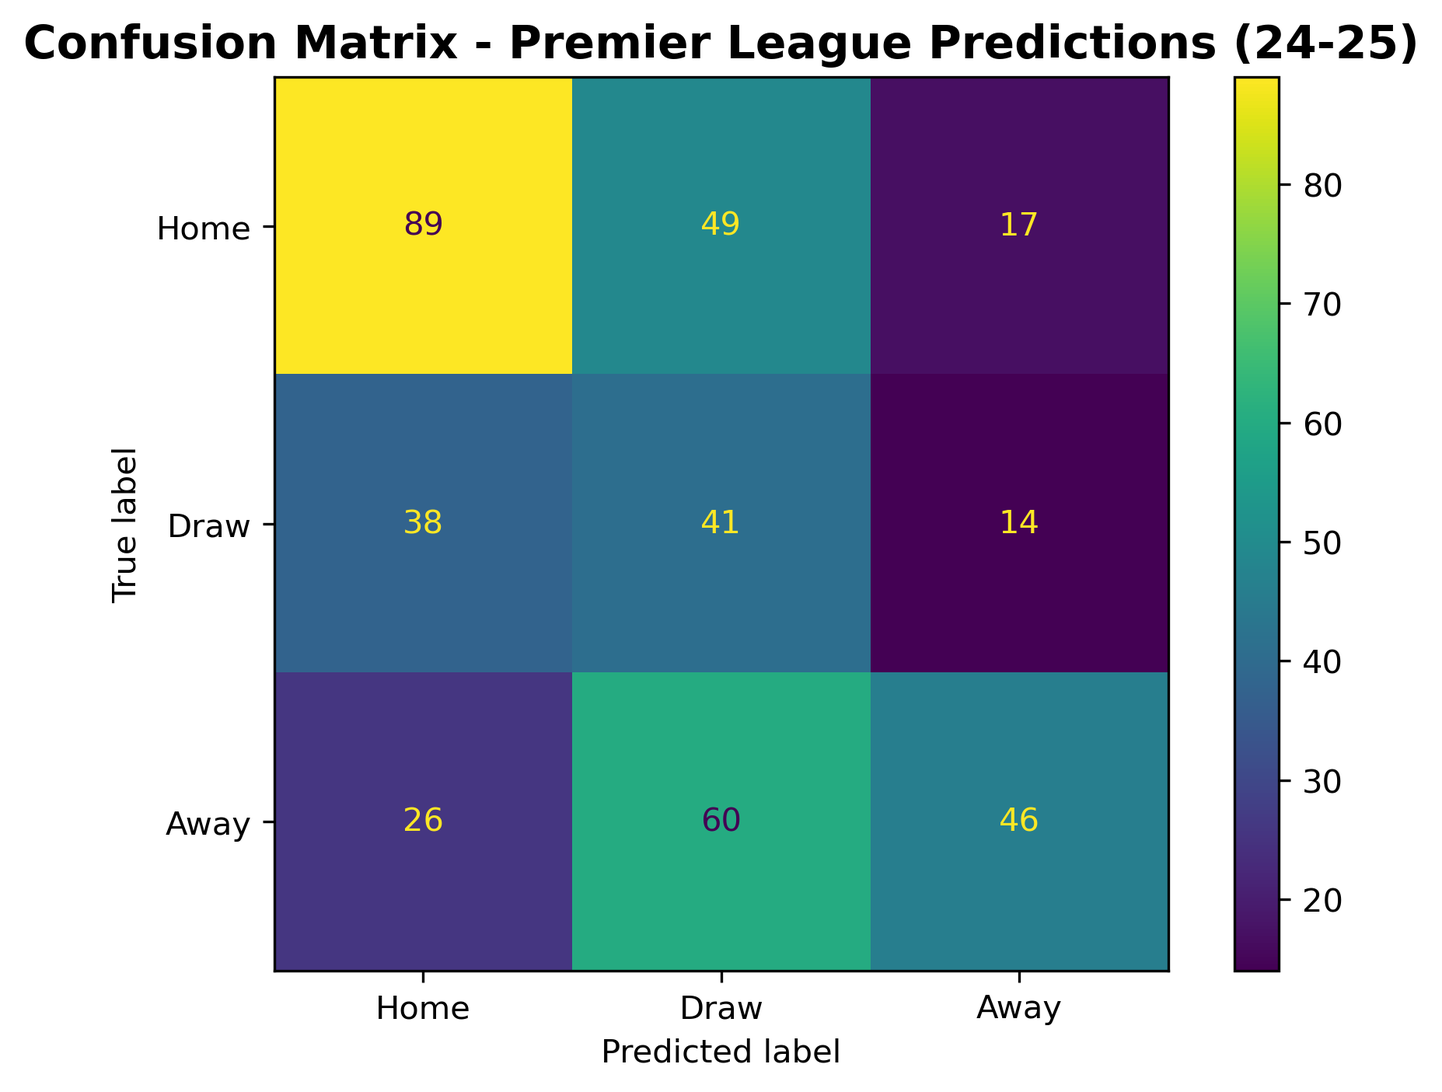
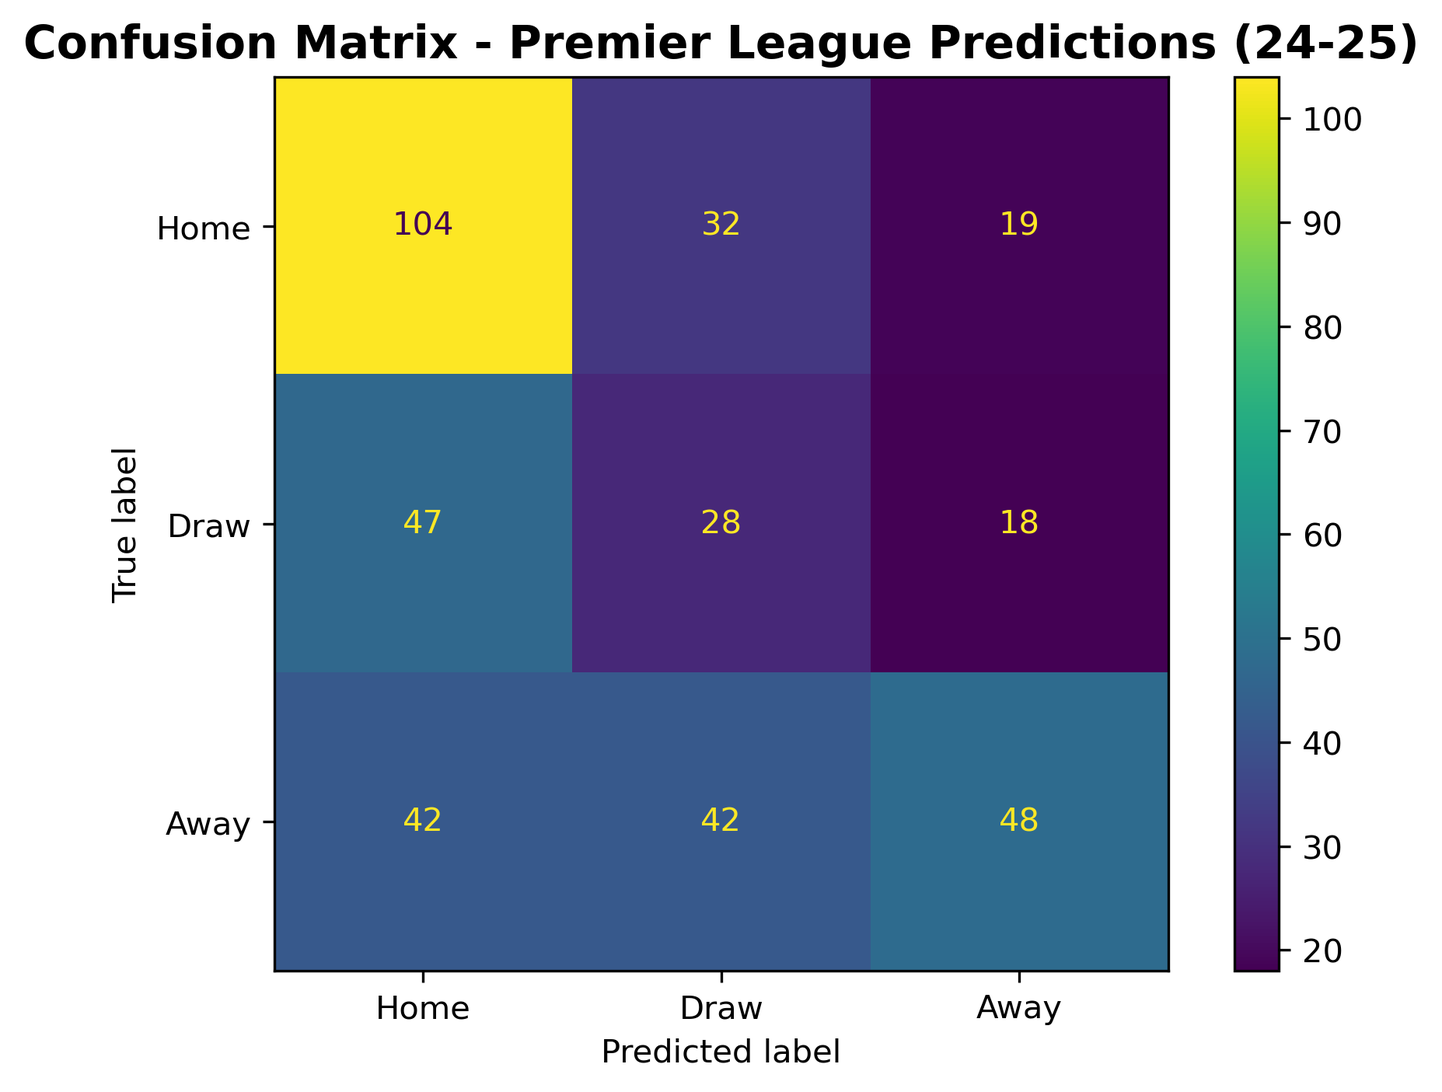
Evaluation section

diff --git a/docs/Final Report/main.tex b/docs/Final Report/main.tex
@@ -17,6 +17,7 @@
 \usepackage{microtype}
 \usepackage{inconsolata}
 \usepackage{graphicx}
+\usepackage{makecell}
 
 % If the title and author information does not fit in the area allocated, uncomment the following
 %
@@ -83,9 +84,8 @@ Here, talk about the related work you encountered for your approach. Cite at lea
 
 \section{Dataset}
 
-Our dataset consists of historical English Premier League match data covering seasons 2010–11 through 2024–25, obtained from the public repository \citep{footballdata}. The English Premier League is the top tier of English football, featuring 20 teams that compete in a double round-robin format: each team plays every other team twice (once at home, once away), resulting in 380 matches per season. The dataset spans 15 complete seasons, providing approximately 5,700 total match records for analysis and modeling.
+Our dataset consists of historical English Premier League match data covering seasons 2010–11 through 2024–25, obtained from the public repository \citep{footballdata}. The English Premier League is the top tier of English football, featuring 20 teams that compete in a double round-robin format: each team plays every other team twice (once at home, once away), resulting in 380 matches per season, which is 38 matches per team per season. The dataset spans 15 complete seasons, providing 5,700 total matches for this project.
 
-The dataset is structured as a sequence of matches ordered chronologically within each season, enabling temporal modeling of team performance and form. Each season's CSV file contains match-level statistics that capture both pre-match expectations and post-match outcomes, making it suitable for developing predictive models that can forecast match results before kickoff.
 
 \subsection{Dataset Properties}
 
@@ -97,65 +97,62 @@ The dataset contains comprehensive match-level information organized into severa
 \hline
 \textbf{Category} & \textbf{Example Columns} \\
 \hline
-Match Information & Date, HomeTeam, AwayTeam, Season, Div \\
+Match Info & \makecell[l]{Date, HomeTeam, \\AwayTeam, Season, Div} \\
 Full-time Outcome & FTHG, FTAG, FTR \\
-Half-time Statistics & HTHG, HTAG, HTR \\
+Half-time Stats & HTHG, HTAG, HTR \\
 Offensive Metrics & HS, AS, HST, AST, HC, AC \\
-Discipline Statistics & HF, AF, HY, AY, HR, AR \\
+Discipline & HF, AF, HY, AY, HR, AR \\
 Betting Odds & B365H, B365D, B365A \\
 \hline
 \end{tabular}
-\caption{Column categories included in the Premier League dataset. FTHG/FTAG: full-time home/away goals; HTHG/HTAG: half-time home/away goals; HS/AS: home/away shots; HST/AST: home/away shots on target; HC/AC: home/away corners; HF/AF: home/away fouls; HY/AY: home/away yellow cards; HR/AR: home/away red cards; B365H/B365D/B365A: Bet365 odds for home win/draw/away win.}
+\caption{Example columns included in the Premier League dataset.}
 \end{table}
 
-The dataset exhibits several important characteristics for predictive modeling. First, it provides temporal continuity across 15 seasons, allowing models to learn long-term patterns and adapt to evolving team dynamics. Second, the inclusion of pre-match betting odds (Bet365) provides a strong baseline signal, as these odds aggregate expert knowledge, public sentiment, and statistical analysis. Third, the chronological ordering enables proper temporal modeling where predictions for future matches can only use information from past matches.
-
-The dataset contains minimal missing data, with most matches having complete records for goals, results, and betting odds. This high data quality reduces the need for extensive imputation strategies and ensures reliable model training.
+The dataset contains many important features for predictive modeling. First, it contains the temporal continuity over the 15 seasons, allowing our model to learn the long-term patterns and adapt to team performance and form during each season. Second, it contains the pre-match betting odds, which provide a strong feature expectation for the match outcome. Third, the chronological ordering enables proper temporal modeling where predictions for future matches can only use information from past matches. Finally, the dataset is complete, with no or minimal missing data, with most matches having complete records for goals, results, and betting odds.
 
 \subsection{Preprocessing Operations}
 
-The preprocessing pipeline, implemented in \texttt{build\_dataset.py}, transforms raw match data into a format suitable for sequential modeling. The pipeline consists of several stages: data cleaning, feature extraction, history construction, and data splitting.
+The preprocessing pipeline, implemented in \texttt{build\_dataset.py} and \texttt{importing\_files.py}, transforms raw match data into a format suitable for sequential modeling. The pipeline consists of several stages: data cleaning, feature extraction, history construction, and data splitting.
 
 \subsubsection{Data Cleaning}
 
 The first stage involves cleaning and standardizing the raw match data:
 \begin{itemize}
-    \item \textbf{Removal of incomplete records}: Matches with missing full-time goals (FTHG, FTAG) or results (FTR) are excluded from the dataset, as these are essential for both training and evaluation.
-    \item \textbf{Betting odds normalization}: Missing odds values are converted to numeric format and filled with 0.0 if unavailable. This occurs rarely in our dataset, as most matches have complete betting odds information.
-    \item \textbf{Date parsing}: Match dates are standardized to ensure proper chronological ordering, which is critical for temporal modeling and preventing data leakage.
-    \item \textbf{Team name standardization}: Team names are normalized to handle variations (e.g., "Manchester United" vs. "Man United") and ensure consistent identification across seasons.
+    \item \textbf{Removal of incomplete records}: Matches with missing full-time goals (FTHG, FTAG) or results (FTR) are excluded from the dataset using \texttt{dropna} to ensure that the dataset is complete and can be used for training and evaluation.
+    \item \textbf{Betting odds processing}: Betting odds columns (B365H, B365D, B365A) are converted to numeric format and filled with 0.0 to avoid any invalid or NaN values.
+    \item \textbf{Date sorting}: Match dates are parsed to datetime format and the entire dataset is sorted chronologically by season and date, which is essential for temporal modeling.
+    \item \textbf{Team identification}: Create mapping of the team names to unique IDs to be used for the model.
 \end{itemize}
 
 \subsubsection{Feature Extraction}
 
-For each match, we extract features from the perspective of each team using the \texttt{\_game\_features\_from\_perspective} function. This creates a 7-dimensional feature vector per match that captures the essential match outcomes:
+For each match, we extract features from the perspective of each team using the \verb|_game_features_from_perspective| function. This creates a 7-dimensional feature vector per match that captures the essential match outcomes. The features are:
 \begin{itemize}
     \item \textbf{Goals for (gf)}: Number of goals scored by the team in the match
     \item \textbf{Goals against (ga)}: Number of goals conceded by the team
     \item \textbf{Goal difference (gd)}: Computed as gf - ga, providing a single metric for match performance
-    \item \textbf{Home indicator (is\_home)}: Binary value (1.0 if playing at home, 0.0 if away), capturing venue effects
+    \item \textbf{Home indicator (is\_home)}: Binary value (1.0 if playing at home, 0.0 if away), capturing stadium effects
     \item \textbf{Win indicator}: Binary value (1.0 if the team won, 0.0 otherwise)
     \item \textbf{Draw indicator}: Binary value (1.0 if the match was drawn, 0.0 otherwise)
     \item \textbf{Loss indicator}: Binary value (1.0 if the team lost, 0.0 otherwise)
 \end{itemize}
 
-This feature representation is designed to be temporally consistent: all features are derived from match outcomes that are known immediately after a match concludes, making them available for predicting future matches. The 7-dimensional vector provides a compact yet informative representation that captures both the quantitative (goals) and qualitative (result) aspects of match performance.
 
 \subsubsection{History Construction}
 
 The preprocessing builds two types of match history sequences that capture different aspects of team performance:
 
 \textbf{Team Form History:}
-For each team, we maintain a rolling window of the last $k_{form}=5$ matches, capturing recent performance trends. This form history is updated incrementally as matches are processed chronologically, ensuring that only information available before each match is used for prediction. The choice of $k_{form}=5$ balances the need for sufficient context to capture momentum and trends while avoiding excessive noise from older matches that may be less relevant to current form.
+For each team, we maintain a window of the last $k_{form}=5$ matches, capturing recent form of the team. This form history is updated incrementally as matches are processed chronologically, ensuring that only information available before each match is used for prediction. The choice of $k_{form}=5$ balances the need for sufficient context to capture momentum and trends while avoiding excessive noise from older matches that may be less relevant to current form.
 
 \textbf{Head-to-Head History:}
-For each team pair, we maintain the last $k_{h2h}=5$ encounters between the two teams, using the same 7-dimensional feature representation. Head-to-head history captures matchup-specific dynamics, such as tactical advantages, psychological factors, and historical dominance patterns. This is particularly valuable for teams with strong historical records against specific opponents, as it allows the model to learn these matchup-specific patterns.
+For each team pair, we maintain the last $k_{h2h}=5$ encounters between the two teams, using the same 7-dimensional feature representation. Head-to-head history captures matchup specific information, such as tactical advantages, psychological factors, and historical dominance patterns. This is particularly valuable for teams with strong historical records against specific opponents, as it allows the model to learn these matchup-specific patterns.
 
 Both history types are constructed incrementally as matches are processed in chronological order. When a team has fewer than $k$ previous matches (e.g., at the start of a season or for newly promoted teams), the history is padded with zero vectors, ensuring consistent input dimensions for the model.
 
 \subsubsection{Data Split}
 
-We employ a chronological train-validation split to prevent temporal data leakage and simulate realistic prediction scenarios:
+We employ a chronological train-validation split to simulate realistic prediction scenarios:
 \begin{itemize}
     \item \textbf{Training set}: All matches from seasons 2010–11 through 2023–24, comprising approximately 5,320 matches (14 seasons $\times$ 380 matches per season)
     \item \textbf{Validation set}: All matches from the 2024–25 season, comprising 380 matches
@@ -167,26 +164,24 @@ The chronological split is critical because football data exhibits strong tempor
 
 \subsection{Dataset Changes Since Progress Report}
 
-Since the progress report, we made significant changes to address data leakage concerns raised during feedback. The primary modification was the removal of post-match statistics (such as shots, corners, fouls, and cards) from the feature set, as these are only known after a match concludes.
+Since the progress report, we made significant changes to address some of the concerns raised the group had in regards of the prediction process. The primary modification was the removal of post-match statistics (such as shots, corners, fouls, and cards) from the feature set, as these are only known after a match concludes.
 
 \textbf{Initial Approach:}
-Our first implementation used season-aggregated statistics (average goals, shots, cards, etc.) combined with post-match statistics as features in a feedforward network. While this approach showed promising results, it suffered from data leakage, as many statistics are only available after matches are played.
+Our first implementation used season-level aggregated statistics (average goals, shots, cards, etc.) combined with post-match statistics as features in a feedforward network. While this approach showed promising results, it suffered from data leakage, as many statistics are only available after matches are played.
 
 \textbf{Current Approach:}
 The final implementation uses only pre-match betting odds as explicit input features, with match history sequences constructed from past match outcomes. This ensures that all features used for prediction are available before kickoff, making the model suitable for real-world forecasting applications. The betting odds serve as a strong pre-match signal, while the match history sequences capture temporal patterns in team performance.
 
-This change required restructuring the preprocessing pipeline to focus on outcome-based features rather than in-game statistics. The resulting model is more realistic and deployable, as it can make predictions using only information that would be available to a human analyst before a match begins.
-
-
+This change required restructuring the preprocessing pipeline to focus on outcome-based features rather than in-game statistics. The resulting model is more realistic, as it can make predictions using only information that would be available to a someone before a match begins.
 
 \section{Features and Inputs}
 
-Our model uses a carefully designed set of features that capture both pre-match expectations and historical team performance patterns. All inputs are available before a match begins, ensuring realistic and deployable predictions.
+Our model uses a carefully designed set of features that capture both pre-match expectations and historical team performance patterns. All inputs are available before a match begins, ensuring realistic predictions.
 
 \subsection{Feature Components}
 
 \textbf{Pre-Match Features:}
-The primary pre-match features are Bet365 betting odds (\texttt{B365H}, \texttt{B365D}, \texttt{B365A}), which represent bookmaker assessments of match outcome probabilities. These odds aggregate expert knowledge, public sentiment, and statistical analysis. We also use learned embeddings for team identities (16-dimensional) and ground effects (4-dimensional), capturing intrinsic team characteristics and home advantage.
+The primary pre-match features are Bet365 betting odds (\texttt{B365H}, \texttt{B365D}, \texttt{B365A}), which represent betting odds of match outcome probabilities. These odds aggregate expert knowledge and statistical analysis. We also use learned embeddings for team identities (16-dimensional) and stadium effects (4-dimensional), capturing team characteristics and home advantage.
 
 \textbf{Historical Sequence Features:}
 We construct two types of match history sequences:
@@ -199,11 +194,11 @@ The choice of $k=5$ balances sufficient context with computational efficiency, a
 
 \subsection{Feature Engineering Rationale}
 
-Following feedback from the progress review, we restricted features to those available before match time. Betting odds are the only explicit pre-match statistics, while all other features are derived from historical match outcomes. The sequential nature of team form and head-to-head histories allows the model to capture temporal dependencies, preserving match order rather than using aggregated statistics. The model employs learned embeddings and GRU encoders to discover latent team characteristics and extract relevant patterns from match sequences.
+Following feedback from the progress review and advice from the professor, we restricted features to those available before match time. Betting odds are the only explicit pre-match statistics, while all other features are derived from historical match outcomes. The sequential nature of team form and head-to-head histories allows the model to capture temporal dependencies, preserving match order rather than using aggregated statistics. The model employs learned embeddings and GRU encoders to discover latent team characteristics and extract relevant patterns from match sequences.
 
 \subsection{Input Representation}
 
-The final input concatenates: team ID embeddings for both teams (16 dimensions each), ground embedding (4 dimensions), betting odds vector (3 dimensions), and encoded histories for team 1 form, team 2 form, and head-to-head (32 dimensions each from GRU encoders). This combined representation is passed through a feedforward network to predict the final scoreline (home goals, away goals), enabling joint learning of feature interactions and temporal patterns.
+The final input concatenates: team ID embeddings for both teams (16 dimensions each), stadium embedding (4 dimensions), betting odds vector (3 dimensions), and encoded histories for team 1 form, team 2 form, and head-to-head (32 dimensions each from GRU encoders).
 
 
 \section{Implementation}
@@ -212,7 +207,73 @@ Describe your model and implementation here. Refer to item 4. This may take arou
 
 \section{Results and Evaluation}
 
-How are you evaluating your model? What results do you have so far? What are your baselines? Refer to item 5. This may take around 0.5 pages.
+\subsection{Evaluation Strategy}
+
+Our evaluation strategy employs a chronological train-validation split that respects the temporal nature of football match data. This approach simulates realistic prediction scenarios where historical data is used to forecast future outcomes.
+
+\textbf{Train-Validation Split:}
+We use a strict temporal split where all matches from seasons 2010–11 through 2023–24 serve as the training set, comprising approximately 5,320 matches (14 complete seasons). The validation set consists of all 380 matches from the 2024–25 season, representing a complete, unseen season. This split strategy ensures that the model is evaluated on future matches relative to its training data.
+
+We do not employ a separate test set, as the validation set already represents a complete season that is temporally distinct from the training data. The validation set provides a robust evaluation that tests the model's ability to generalize to new seasons with potentially different team compositions, managerial changes, and evolving league dynamics.
+
+\textbf{Cross-Validation:}
+We do not use cross-validation for several reasons. First, the temporal nature of football data requires maintaining strict chronological order; random or k-fold splits would violate this temporal structure and create unrealistic evaluation scenarios. Second, season-level integrity is important: teams change composition between seasons, and splitting within seasons could create issues. Third, our validation set represents a complete, unseen season, which provides a more realistic assessment of model performance than cross-validation on historical data.
+
+\textbf{Label Distributions:}
+The validation set demonstates a natural class imbalance typical of football match outcomes (labels). The three outcome classes are: Home win, Draw, and Away win. The distribution heavily favors Home with an average of around 40\% of the matches being Home wins. The Draw class is the least frequent with an average of around 25\% of the matches being Draws. The Away class is the most frequent with an average of around 35\% of the matches being Away wins. This imbalance reflects the difficulty of predicting draws, which are the least frequent outcome in Premier League matches. The training set exhibits similar distributions across the 14 seasons, ensuring that the model learns from representative class proportions.
+
+\subsection{Evaluation Metrics}
+
+We evaluate our model using a comprehensive set of classification metrics appropriate for multi-class prediction of match outcomes. These metrics provide complementary perspectives on model performance:
+
+\begin{itemize}
+    \item \textbf{Accuracy}: The overall proportion of correctly predicted match outcomes
+    \item \textbf{Precision}: The proportion of predicted positive cases that are actually positive, computed per class
+    \item \textbf{Recall}: The proportion of actual positive cases that are correctly identified, computed per class
+    \item \textbf{F1-score}: The harmonic mean of precision and recall, providing a balanced metric
+\end{itemize}
+
+These metrics are computed for each of the three outcome classes, as well as macro-averaged and weighted-averaged across all classes.
+
+\subsection{Results}
+
+Table~\ref{tab:classification_metrics} presents the classification performance metrics for our model on the 2024–25 validation season. The model achieves an overall accuracy of 47.37\% (180 out of 380 matches correctly predicted). The per-class metrics reveal significant performance variation across outcome types.
+
+\begin{table}[h]
+\centering
+\begin{tabular}{lcccc}
+\hline
+\textbf{Class} & \textbf{Precision} & \textbf{Recall} & \textbf{F1-score} & \textbf{Support} \\
+\hline
+Home & 0.54 & 0.67 & 0.60 & 155 \\
+Draw & 0.27 & 0.30 & 0.29 & 93 \\
+Away & 0.56 & 0.36 & 0.44 & 132 \\
+\hline
+\textbf{Accuracy} & \multicolumn{4}{c}{0.4737 (180/380)} \\
+\textbf{Macro Avg} & 0.46 & 0.45 & 0.44 & 380 \\
+\textbf{Weighted Avg} & 0.48 & 0.47 & 0.47 & 380 \\
+\hline
+\end{tabular}
+\caption{Classification metrics for match outcome prediction on the 2024–25 validation season.}
+\label{tab:classification_metrics}
+\end{table}
+
+The model demonstrates its strongest performance on Home wins, achieving a precision of 0.54, recall of 0.67, and F1-score of 0.60. This reflects the model's ability to leverage home advantage signals from betting odds and historical sequences. Performance on Away wins is also strong, with precision of 0.56 and recall of 0.36, resulting in an F1-score of 0.44. The model struggles most with Draw predictions, achieving the lowest metrics across all classes (precision 0.27, recall 0.30, F1-score 0.29), which is consistent with the difficulty of predicting draws in football.
+
+Figure~\ref{fig:confusion_matrix} visualizes the confusion matrix, revealing detailed patterns in prediction errors. The matrix shows that the model correctly predicts 104 Home wins but misclassifies 32 Home wins as Draws and 19 as Away wins. For Draws, the model correctly identifies only 28 out of 93 cases, with 47 misclassified as Home wins and 18 as Away wins. For Away wins, the model correctly predicts 48 cases, with 42 misclassified as Home wins and 42 as Draws. This pattern suggests that the model has a slight bias toward predicting Home wins, which reflects the home advantage effect captured in the training data.
+
+\begin{figure}[h]
+  \centering
+  \includegraphics[width=0.9\columnwidth]{../../confusion_matrix.png}
+  \caption{Confusion matrix for match outcome predictions on the 2024–25 Premier League season. Rows represent true labels, columns represent predicted labels.}
+  \label{fig:confusion_matrix}
+\end{figure}
+
+\subsection{Adequacy of Metrics}
+
+The metrics selected for evaluation have proven adequate for assessing model performance on this multi-class classification task. The combination of accuracy, precision, recall, and F1-score provides a comprehensive view of model performance, while the confusion matrix offers detailed insights into misclassification patterns. These metrics effectively capture both overall performance and class-specific challenges, particularly the difficulty of predicting draws.
+
+Compared to the progress report stage, our current metrics remain consistent, but the results reflect improvements in model architecture and feature engineering. The progress report metrics revealed a severe bias toward Home win predictions, with zero Draw predictions. While the current model still struggles with Draws, it now makes some correct Draw predictions (28 out of 93), indicating progress in addressing class imbalance. The metrics highlight areas for improvement, particularly the need for better Draw prediction capability, which could be addressed through techniques such as more sophisticated sequence modeling approaches.
 
 \section{Feedback and Plans}
 
